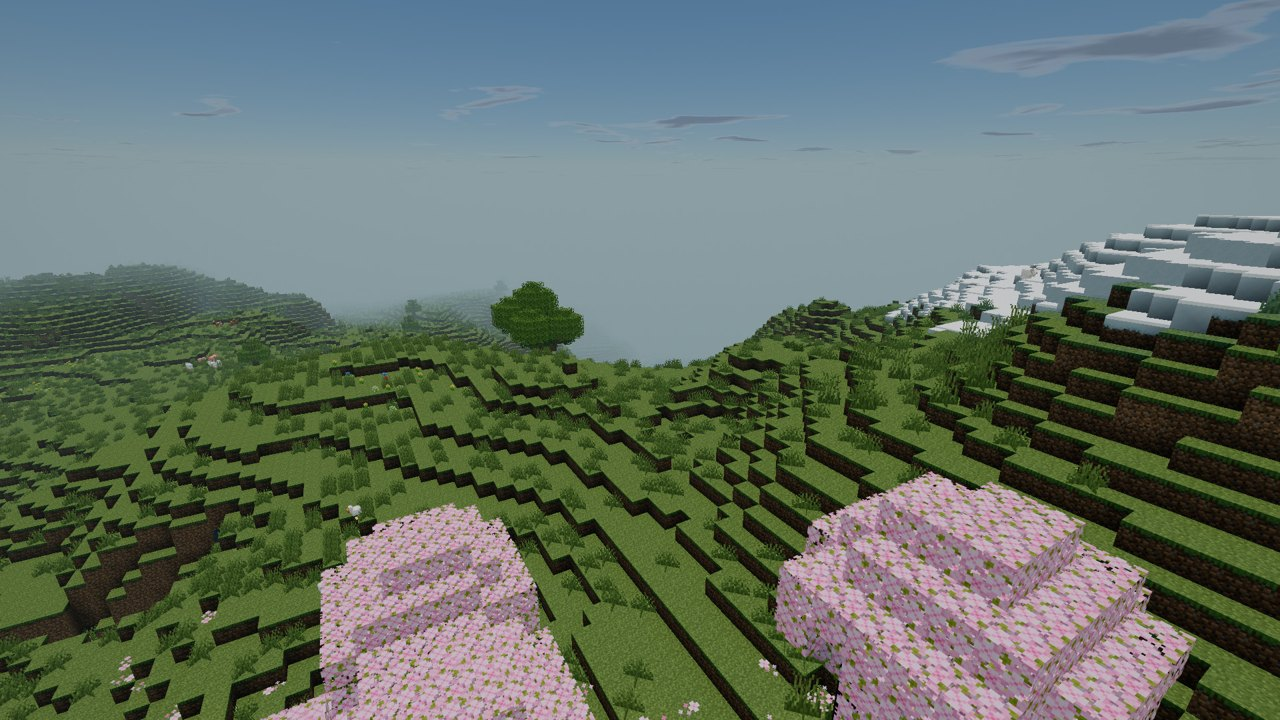
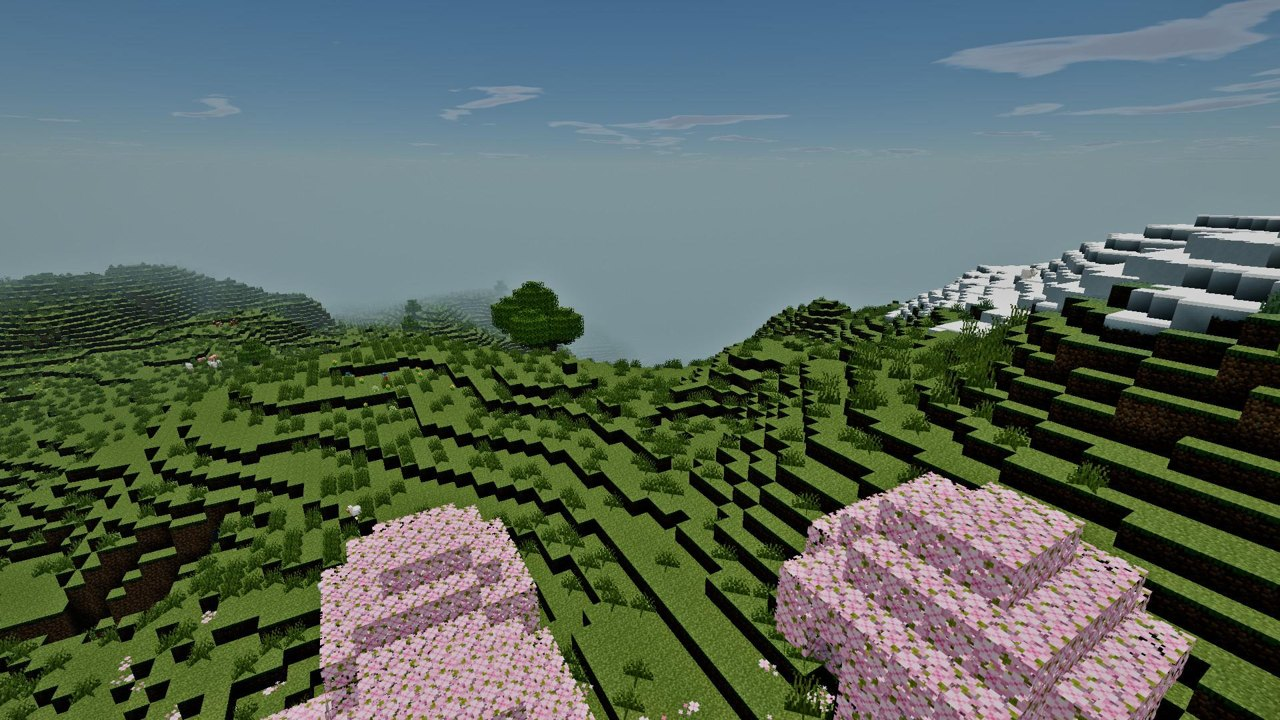
Realistic shader: more contrast, darker nights, lights that don't white out
- deeper shade (stronger corner occlusion, less sky light in shadow), a
  deeper blue sky, less haze, steeper filmic contrast and more colour
- new clarity setting: local contrast against a blurred luminance
- nights are darker (maxExposure 14, minLight 0.006) and dim areas shift
  towards night vision (bluer, less saturated), while lights keep their colour
- torch light falls off more steeply, light sources glow less, and a second
  highlight cap (brightest 0.5%) keeps torch-lit areas from whiting out
- whiter clouds with a silver lining towards the sun, a little more bloom

diff --git a/src/main/java/io/github/kunaigear/dailycams/render/RealisticShader.java b/src/main/java/io/github/kunaigear/dailycams/render/RealisticShader.java
@@ -35,6 +35,8 @@ final class RealisticShader {
     private static final double CLOUD_ALTITUDE = 900;
     private static final double[] TORCH = {1.0, 0.56, 0.26};
     private static final double[] FLOOR_TINT = {0.86, 0.93, 1.1};
+    /** How much of the sky's light reaches surfaces in shade. Below 1 for deeper, more contrasty shadows. */
+    private static final double SHADE = 0.72;
 
     static void apply(BufferedImage image, SimpleShader.Frame f, GBuffer gb, Level level, DailyCamsConfig.RealisticSettings st) {
         int w = image.getWidth(), h = image.getHeight(), n = w * h;
@@ -185,7 +187,7 @@ final class RealisticShader {
                 // Aerial perspective: distant surfaces fade into the light of the atmosphere in front of them.
                 double py = cam.y + d[1] * surfDist;
                 double height = Math.exp(-Math.max(0, (py + cam.y) * 0.5 - 64) / 140);
-                double density = st.haze / 1400.0 * (1 + 3 * overcast) * height;
+                double density = st.haze / 2200.0 * (1 + 3 * overcast) * height;
                 double fogAmt = 1 - Math.exp(-surfDist * density);
                 double hy = Math.max(d[1], Atmosphere.HAZE_ELEVATION), hl = Math.sqrt(1 - hy * hy), dh = Math.hypot(d[0], d[2]);
                 sky.radiance(dh > 1e-6 ? d[0] / dh * hl : hl, hy, dh > 1e-6 ? d[2] / dh * hl : 0, false, haze);
@@ -216,21 +218,21 @@ final class RealisticShader {
         int np = gb.normal[i], lp = gb.light[i];
         double nx = GBuffer.nx(np), ny = GBuffer.ny(np), nz = GBuffer.nz(np);
         if (nx * d[0] + ny * d[1] + nz * d[2] > 0) { nx = -nx; ny = -ny; nz = -nz; } // two-sided plants
-        double skyL = GBuffer.sky(lp), blockL = GBuffer.block(lp), ao = Math.pow(Math.clamp(GBuffer.ao(lp), 0, 1), 1.3);
+        double skyL = GBuffer.sky(lp), blockL = GBuffer.block(lp), ao = Math.pow(Math.clamp(GBuffer.ao(lp), 0, 1), 2.0);
         BlockState state = blocks.getBlockState(cursor.set(Mth.floor(ox - nx * 0.02), Mth.floor(oy - ny * 0.02), Mth.floor(oz - nz * 0.02)));
         boolean foliage = isFoliage(state);
 
-        double skyVis = skyL * skyL;
+        double skyVis = Math.pow(skyL, 2.4) * SHADE;
         atm.ambient(nx, ny, nz, amb);
         double ndl = nx * lx + ny * ly + nz * lz;
         double diffuse = foliage ? Math.max(0, (ndl + 0.35) / 1.35) : Math.max(0, ndl);
         double direct = diffuse * shadow * lightUp * (skyL > 0.01 ? sky.cloudShadow(ox, oy, oz) : 0);
         double back = foliage ? Math.max(0, -ndl) * 0.3 * shadow * lightUp : 0;
-        double torch = 3.0 * Math.pow(blockL, 2.4);
+        double torch = 2.2 * Math.pow(blockL, 3.2);
         double floor = Math.PI * st.minLight;
         double emission = state.getLightEmission() / 15.0;
         // Light sources glow (and bloom), less so seen through water or glass.
-        double glow = emission > 0 ? (covered ? 0.2 : 1.1) * emission * emission : 0;
+        double glow = emission > 0 ? (covered ? 0.15 : 0.7) * emission * emission : 0;
 
         double[] alb = {ar, ag, ab};
         for (int k = 0; k < 3; k++) {
@@ -381,12 +383,35 @@ final class RealisticShader {
         double exposure = Math.clamp(0.10 / Math.pow(avg, 0.85) / Math.pow(0.05, 0.15), 0.45, st.maxExposure);
         // Highlight protection: keep the brightest tenth of the picture (often the sky at sunset) out of the range
         // where the tone curve washes colours out to white.
-        exposure = Math.min(exposure, 0.8 / Math.max(percentile(r, g, b, 0.9), 1e-6)) * st.exposure;
+        exposure = Math.min(exposure, 0.8 / Math.max(percentile(r, g, b, 0.9), 1e-6));
+        // ...and for small, very bright areas, such as the ground around torches at night.
+        exposure = Math.min(exposure, 3.2 / Math.max(percentile(r, g, b, 0.995), 1e-6)) * st.exposure;
+        // How much of a night scene this is, for night vision below.
+        double night = smoothstep(3.5, 12, exposure);
         io.github.kunaigear.dailycams.DailyCams.LOGGER.debug("Realistic shader: average luminance {}, exposure {}",
                 String.format("%.4f", avg), String.format("%.2f", exposure));
 
         int q = 4, bw = Math.max(1, w / q), bh = Math.max(1, h / q);
-        float[] br = new float[bw * bh], bgn = new float[bw * bh], bb = new float[bw * bh];
+        float[] br = new float[bw * bh], bgn = new float[bw * bh], bb = new float[bw * bh], local = new float[bw * bh];
+        if (st.clarity > 0) {
+            // Clarity: the average brightness of each pixel's surroundings (log), to boost differences from it.
+            for (int y = 0; y < bh; y++) {
+                for (int x = 0; x < bw; x++) {
+                    double sum = 0;
+                    for (int yy = 0; yy < q; yy++) {
+                        for (int xx = 0; xx < q; xx++) {
+                            int i = Math.min(h - 1, y * q + yy) * w + Math.min(w - 1, x * q + xx);
+                            sum += Math.log(Math.max(1e-5, 0.2126 * r[i] + 0.7152 * g[i] + 0.0722 * b[i]));
+                        }
+                    }
+                    local[y * bw + x] = (float) (sum / (q * q));
+                }
+            }
+            for (int pass = 0; pass < 2; pass++) {
+                Throttle.checkpoint();
+                boxBlur(local, bw, bh, 6);
+            }
+        }
         if (st.bloom > 0) {
             for (int y = 0; y < bh; y++) {
                 for (int x = 0; x < bw; x++) {
@@ -421,6 +446,18 @@ final class RealisticShader {
                 c[0] = r[i] * exposure + br[bi] * st.bloom;
                 c[1] = g[i] * exposure + bgn[bi] * st.bloom;
                 c[2] = b[i] * exposure + bb[bi] * st.bloom;
+                if (st.clarity > 0) {
+                    double lum = 0.2126 * r[i] + 0.7152 * g[i] + 0.0722 * b[i];
+                    double f = Math.exp(Math.clamp((Math.log(Math.max(lum, 1e-5)) - local[bi]) * st.clarity, -0.45, 0.45));
+                    c[0] *= f; c[1] *= f; c[2] *= f;
+                }
+                if (night > 0) {
+                    double lum = 0.2126 * c[0] + 0.7152 * c[1] + 0.0722 * c[2];
+                    double k = 0.6 * night * (1 - smoothstep(0.02, 0.3, lum));
+                    c[0] += (lum * 0.72 - c[0]) * k;
+                    c[1] += (lum * 0.92 - c[1]) * k;
+                    c[2] += (lum * 1.35 - c[2]) * k;
+                }
                 AgX.apply(c, st.saturation, st.contrast);
                 double dx = (x - cx) / maxR, dy = (y - cy) / maxR;
                 double v = 1 - st.vignette * Math.pow(Math.min(1, Math.sqrt(dx * dx + dy * dy)), 2.4);
@@ -563,11 +600,11 @@ final class RealisticShader {
                         double[] irr = sunUp ? atm.sunIrradiance : atm.moonIrradiance;
                         double self = Math.exp(-3.2 * cloudAlpha(qx + lx * 180, qz + lz * 180));
                         double mu = dx * (sunUp ? atm.sx : atm.mx) + dy * (sunUp ? atm.sy : atm.my) + dz * (sunUp ? atm.sz : atm.mz);
-                        double forward = 1 + 1.6 * Math.pow(Math.max(0, mu), 10);
+                        double forward = 1 + 2.4 * Math.pow(Math.max(0, mu), 8) + 3.0 * Math.pow(Math.max(0, mu), 60) * (1 - a);
                         double fade = Math.exp(-t / 36000) * smoothstep(0.005, 0.09, dy);
                         double dim = 1 - 0.55 * overcast;
                         for (int k = 0; k < 3; k++) {
-                            double cr = (irr[k] * (0.06 + 0.94 * self) * 0.3 * forward + up[k] * 0.2) * dim;
+                            double cr = (irr[k] * (0.12 + 0.88 * self) * 0.34 * forward + up[k] * 0.3) * dim;
                             out[k] += (cr - out[k]) * a * fade;
                         }
                     }

diff --git a/src/main/java/io/github/kunaigear/dailycams/config/DailyCamsConfig.java b/src/main/java/io/github/kunaigear/dailycams/config/DailyCamsConfig.java
@@ -61,9 +61,9 @@ public final class DailyCamsConfig {
         /** Brightness on top of the automatic exposure (1 = as measured). */
         public double exposure = 1.0;
         /** How far the automatic exposure may brighten dark scenes such as nights and caves. */
-        public double maxExposure = 40;
+        public double maxExposure = 14;
         /** Light that is always there, so places without any light are not pitch black. */
-        public double minLight = 0.012;
+        public double minLight = 0.006;
         /** Haze over distant terrain (1 = natural). */
         public double haze = 1.0;
         /** Cloud cover (0 = clear skies, 1 = varies naturally from day to day, 2 = mostly cloudy). */
@@ -71,10 +71,12 @@ public final class DailyCamsConfig {
         /** Width of shadow edges (0 = hard). */
         public double shadowSoftness = 1.0;
         /** Glow around bright areas such as the sun and light sources. */
-        public double bloom = 0.06;
-        public double saturation = 1.15;
+        public double bloom = 0.08;
+        public double saturation = 1.2;
         /** Filmic contrast (1 = neutral). */
-        public double contrast = 1.12;
+        public double contrast = 1.25;
+        /** Local contrast: brings out detail and makes surfaces stand out from their surroundings. */
+        public double clarity = 0.3;
         /** Darkening towards the corners. */
         public double vignette = 0.12;
         /** Strength of reflections on water (1 = physically based). */
@@ -206,6 +208,7 @@ public final class DailyCamsConfig {
         rs.saturation = Mth.clamp(rs.saturation, 0, 2);
         rs.contrast = Mth.clamp(rs.contrast, 0.5, 2);
         rs.vignette = Mth.clamp(rs.vignette, 0, 1);
+        rs.clarity = Mth.clamp(rs.clarity, 0, 1);
         rs.waterReflections = Mth.clamp(rs.waterReflections, 0, 2);
 
         if (scheduleTimes == null) scheduleTimes = new ArrayList<>();

diff --git a/src/main/java/io/github/kunaigear/dailycams/render/Atmosphere.java b/src/main/java/io/github/kunaigear/dailycams/render/Atmosphere.java
@@ -12,7 +12,7 @@ final class Atmosphere {
     private static final double[] BETA_O = {0.650e-6, 1.881e-6, 0.085e-6};
     private static final double HR = 8000, HM = 1200, MIE_SCATTER = 3.0e-6, MIE_EXTINCT = 3.3e-6, MIE_G = 0.76;
     /** Light lost to single scattering that comes back as multiple scattering (rough approximation). */
-    private static final double MULTI_SCATTER = 3.0;
+    private static final double MULTI_SCATTER = 2.5;
 
     static final double SUN_ILLUMINANCE = 3.0;
     /** Faint light of the night sky itself (airglow, scattered starlight). */

diff --git a/docs/shader.md b/docs/shader.md
@@ -37,8 +37,10 @@ lights the scene again from scratch:
   for the land (the sky stays bright, sunsets don't blow out), then tone mapped with AgX, a filmic curve that keeps
   bright colours from clipping. A little bloom, a slight vignette.
 
-Nights and caves aren't pitch black: the exposure brightens dark scenes (up to `maxExposure`), and a little light
-is always there (`minLight`). At night the moon lights the land and the stars are out.
+Nights are dark, but not pitch black: the exposure brightens dark scenes a little (up to `maxExposure`), a little
+light is always there (`minLight`), and dim areas shift towards night vision: bluer and less colourful. The moon
+lights the land and the stars are out. Torches and lanterns light warm pools around them; the exposure is capped
+so they never white out.
 
 | | |
 |---|---|
@@ -52,14 +54,15 @@ The realistic shader is tuned with `realisticSettings`:
 | Key | Default | Range | Effect |
 |---|---|---|---|
 | `exposure` | `1.0` | 0.1–10 | Brightness on top of the automatic exposure. |
-| `maxExposure` | `40` | 1–200 | How far dark scenes (night, caves) may be brightened. Lower = darker nights. |
-| `minLight` | `0.012` | 0–0.5 | Light that's always there, so places without any light aren't pitch black. |
+| `maxExposure` | `14` | 1–200 | How far dark scenes (night, caves) may be brightened. Higher = brighter nights. |
+| `minLight` | `0.006` | 0–0.5 | Light that's always there, so places without any light aren't pitch black. |
 | `haze` | `1.0` | 0–5 | Haze over distant terrain. |
 | `clouds` | `1.0` | 0–2 | Cloud cover: 0 = always clear, 1 = varies from day to day, 2 = mostly cloudy. Rain adds clouds either way. |
 | `shadowSoftness` | `1.0` | 0–4 | Width of shadow edges (0 = hard). |
-| `bloom` | `0.06` | 0–1 | Glow around the sun and light sources. |
-| `saturation` | `1.15` | 0–2 | Colour intensity. |
-| `contrast` | `1.12` | 0.5–2 | Filmic contrast (1 = neutral). |
+| `bloom` | `0.08` | 0–1 | Glow around the sun and light sources. |
+| `saturation` | `1.2` | 0–2 | Colour intensity. |
+| `contrast` | `1.25` | 0.5–2 | Filmic contrast (1 = neutral). |
+| `clarity` | `0.3` | 0–1 | Local contrast: brings out detail and makes surfaces stand out from their surroundings. |
 | `vignette` | `0.12` | 0–1 | Darkening towards the corners. |
 | `waterReflections` | `1.0` | 0–2 | Strength of reflections on water (1 = physically based). |
 
